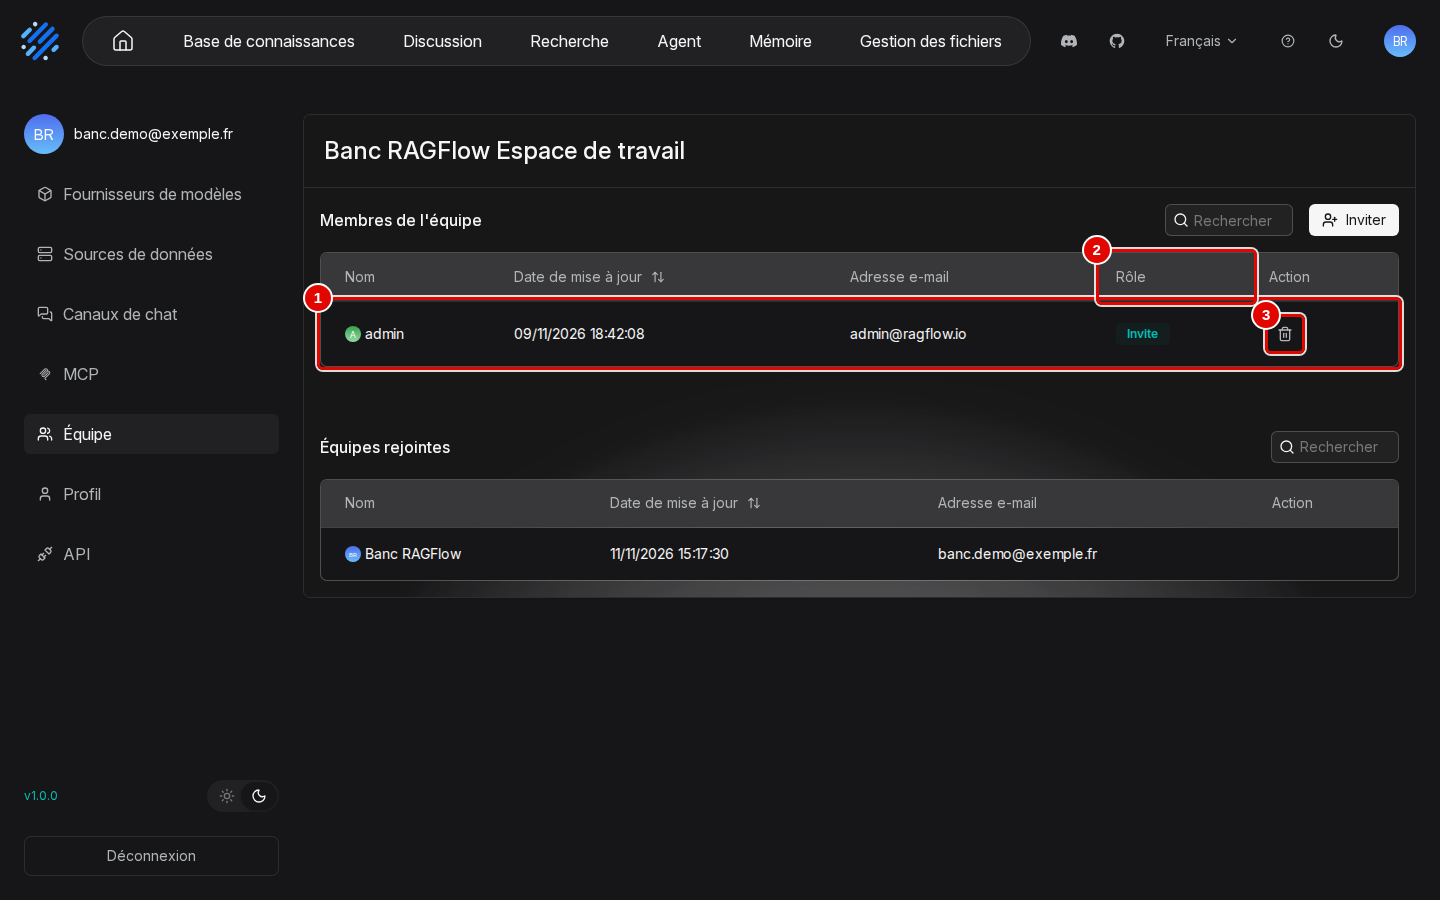
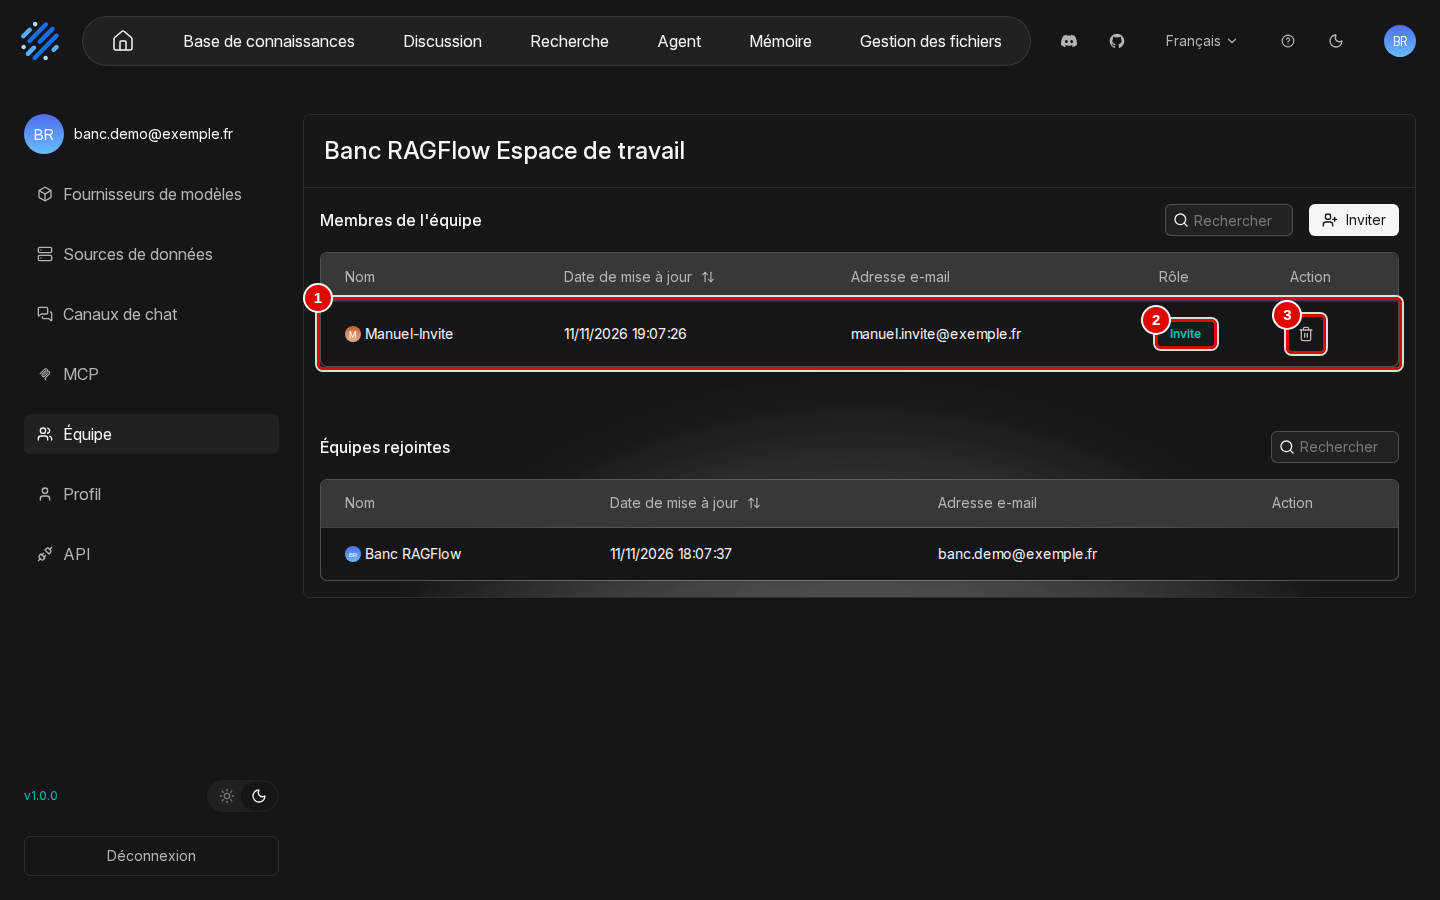
RAGFlow : manuel 13, invitation en flux suivi (compte « Manuel-Invite » créé, invité, connexion côté invité, acceptation), page de l'invité expliquée, captures refaites ; renvois du manuel 15

diff --git a/docs/ragflow/manuel/13-comptes-equipe-et-cles.md b/docs/ragflow/manuel/13-comptes-equipe-et-cles.md
@@ -32,42 +32,55 @@ Cliquer sur la pastille du compte (pastille 1) : la page des réglages s'ouvre, 
 
 ## Inviter un collègue
 
-**Étape 2. Saisir l'adresse du collègue**
-*Où* : « Équipe » › « Inviter ».
-Saisir l'adresse du compte à inviter (pastille 1), puis cliquer sur « Oui » (pastille 3). Le collègue doit déjà avoir un compte RAGFlow (lien « Sign up » de la page de connexion, chapitre 02, étape 8) : l'invitation ne crée pas de compte, comme le rappelle la consigne (pastille 2).
+L'exemple invite un collègue fictif, « Manuel-Invite », dans l'équipe du compte « Banc RAGFlow ». Il se déroule en deux temps : le propriétaire invite (étapes 2 à 4), puis le collègue accepte depuis son propre compte (étapes 5 et 6). Sur un seul poste, les deux comptes se succèdent dans le même navigateur, grâce à « Déconnexion » ; une fenêtre de navigation privée ouverte à côté permet aussi de garder les deux sessions ouvertes en même temps.
 
-![Invitation refusée](../img/13-exploitation/02-invitation-refusee.png)
-*Écran : fenêtre d'invitation, adresse sans compte refusée.*
+**Étape 2. Créer le compte du collègue**
+*Où* : page « Équipe » › « Déconnexion » (capture de l'étape 1, pastille 6), puis page de connexion › « Sign up ».
+L'invitation ne crée pas de compte : le collègue doit d'abord avoir le sien. Cliquer sur « Déconnexion », puis, sur la page de connexion, sur « Sign up ». Remplir le formulaire « Create an account » montré au chapitre 02, étape 8 : « Email » `manuel.invite@exemple.fr`, « Nickname » « Manuel-Invite », un mot de passe, puis « Continue ». Se reconnecter ensuite avec le compte propriétaire (chapitre 03, étape 1), et revenir à « Équipe ».
+
+*Résultat* : le compte « Manuel-Invite » existe ; la page « Équipe » du propriétaire est de nouveau affichée.
+
+**Étape 3. Inviter le collègue**
+*Où* : « Équipe » › « Inviter ».
+Saisir l'adresse du compte à inviter (pastille 1), puis cliquer sur « Oui » (pastille 3). La consigne (pastille 2) rappelle que seul un compte existant peut être invité : avec une adresse sans compte, le message « Astuce : 102 user not found » s'affiche en haut à droite et la fenêtre reste ouverte.
+
+![Fenêtre d'invitation](../img/13-exploitation/02-inviter.png)
+*Écran : « Équipe », fenêtre d'invitation remplie.*
 
 | N° | Élément | Rôle |
 |---|---|---|
-| 1 | « Adresse e-mail » | adresse du compte à inviter ; ici `manuel.invite@exemple.fr`, adresse sans compte |
+| 1 | « Adresse e-mail » | adresse du compte à inviter, ici `manuel.invite@exemple.fr` |
 | 2 | consigne | « Only registered users can be invited. Please register the account before sending an invitation. » |
 | 3 | « Oui » | envoie l'invitation ; « Non » annule |
-| 4 | message | « Astuce : 102 user not found » : l'adresse n'a pas de compte ; la fenêtre reste ouverte |
 
-*Résultat* : avec l'adresse d'un compte existant, la fenêtre se ferme et le membre apparaît (étape suivante).
+*Résultat* : la fenêtre se ferme et le membre apparaît dans la liste (étape suivante).
 
-**Étape 3. Vérifier ou retirer le membre**
+**Étape 4. Vérifier le membre invité**
 *Où* : « Équipe » › « Membres de l'équipe ».
-Le compte invité apparaît dans la liste (pastille 1), avec son rôle (pastille 2). Pour le retirer, cliquer sur la corbeille (pastille 3), puis sur « Supprimer » dans la confirmation « Supprimer le membre ».
+Le compte invité apparaît dans la liste (pastille 1), avec son rôle (pastille 2). La corbeille (pastille 3) le retire, après confirmation « Supprimer le membre » ; elle sert aussi plus tard, pour retirer un membre qui a accepté.
 
 ![Membre invité](../img/13-exploitation/03-membre-invite.png)
 *Écran : « Équipe », membre invité.*
 
 | N° | Élément | Rôle |
 |---|---|---|
-| 1 | membre invité | « admin », `admin@ragflow.io` (compte d'administration, invité pour l'exemple) |
-| 2 | « Rôle » | « Invite » : invitation en attente d'acceptation par le compte invité (étape 4) |
+| 1 | membre invité | « Manuel-Invite », date de l'invitation, `manuel.invite@exemple.fr` |
+| 2 | « Rôle » | « Invite » : invitation en attente ; il devient « Member » quand le collègue accepte (étape 6) |
 | 3 | corbeille | retire le membre, après confirmation |
 
-*Résultat* : le membre est ajouté ; retiré, il disparaît aussitôt de la liste.
+*Résultat* : l'invitation est envoyée ; le collègue doit maintenant l'accepter.
 
 ## Accepter une invitation et partager une base
 
-**Étape 4. Accepter l'invitation, côté invité**
+**Étape 5. Se connecter avec le compte du collègue**
+*Où* : menu du compte › « Équipe » › « Déconnexion », puis page de connexion.
+Cliquer sur « Déconnexion », puis se connecter avec `manuel.invite@exemple.fr` et son mot de passe, comme au chapitre 03, étape 1 (ou ouvrir une fenêtre de navigation privée et s'y connecter). Ouvrir ensuite le menu du compte (pastille ronde « M », en haut à droite) › « Équipe ».
+
+*Résultat* : la page « Équipe » du collègue s'affiche (étape suivante).
+
+**Étape 6. Accepter l'invitation**
 *Où* : compte invité › menu du compte › « Équipe » › « Équipes rejointes ».
-Le collègue invité se connecte à son propre compte et ouvre « Équipe » : l'équipe qui l'invite apparaît dans « Équipes rejointes » (pastille 2), avec deux boutons. Cliquer sur « Accepter » (pastille 3).
+La page est celle de l'étape 1, vue depuis l'autre compte. En haut, « Manuel-Invite Espace de travail » : l'espace propre du collègue, dont « Membres de l'équipe » est vide (« Aucune donnée disponible »). En bas, « Équipes rejointes » (pastille 1) : l'équipe qui invite (pastille 2), avec deux boutons, puis, en dernière ligne, son propre espace. Sur la machine d'essai, la page de ce compte neuf s'est affichée avec un en-tête réduit : un bouton de menu (trois traits) à gauche et une icône de traduction à droite remplacent la barre du haut et le menu « Français » ; le contenu de la page est le même. Cliquer sur « Accepter » (pastille 3).
 
 ![Invitation reçue](../img/13-exploitation/10-invitation-recue.png)
 *Écran : réglages du compte invité, page « Équipe », invitation reçue.*
@@ -79,9 +92,9 @@ Le collègue invité se connecte à son propre compte et ouvre « Équipe » : l
 | 3 | « Accepter » | rejoint l'équipe |
 | 4 | « Refuser » | décline l'invitation |
 
-*Résultat* : le message « Opéré » confirme ; les deux boutons disparaissent de la ligne, qui reste dans « Équipes rejointes ».
+*Résultat* : le message « Opéré » confirme ; les deux boutons disparaissent de la ligne, qui reste dans « Équipes rejointes ». Côté propriétaire, après reconnexion, le rôle du membre passe de « Invite » à « Member ».
 
-**Étape 5. Partager une base avec l'équipe**
+**Étape 7. Partager une base avec l'équipe**
 *Où* : compte propriétaire › barre du haut › « Base de connaissances » › base ouverte › menu de gauche › « Configuration » › « Autorisations ».
 Ouvrir la liste « Autorisations » (montrée au chapitre 06, étape 6, pastille 5), choisir « Équipe » au lieu de « Moi uniquement », puis cliquer sur « Enregistrer » en bas de la page. Un message « No PaddleOCR models added… » peut s'afficher en même temps : il ne concerne que le choix du lecteur des PDF et n'empêche pas l'enregistrement.
 
@@ -89,7 +102,7 @@ Ouvrir la liste « Autorisations » (montrée au chapitre 06, étape 6, pastille
 
 ## Régler son profil
 
-**Étape 6. Ouvrir la page « Profil »**
+**Étape 8. Ouvrir la page « Profil »**
 *Où* : menu du compte › « Profil ».
 Chaque réglage a son bouton « Modifier » à droite.
 
@@ -106,7 +119,7 @@ Chaque réglage a son bouton « Modifier » à droite.
 
 *Résultat* : le profil est affiché et modifiable.
 
-**Étape 7. Changer le fuseau horaire**
+**Étape 9. Changer le fuseau horaire**
 *Où* : « Profil » › « Modifier » en face de « Fuseau horaire ».
 Choisir le fuseau dans la liste (pastille 1), par exemple celui de Paris, puis cliquer sur « Enregistrer » (pastille 3).
 
@@ -123,7 +136,7 @@ Choisir le fuseau dans la liste (pastille 1), par exemple celui de Paris, puis c
 
 ## Créer et supprimer une clé d'accès
 
-**Étape 8. Ouvrir la page « API »**
+**Étape 10. Ouvrir la page « API »**
 *Où* : menu du compte › « API ».
 La page « RAGFlow API » donne l'adresse du serveur (pastille 3) et l'accès aux clés (pastille 2).
 
@@ -140,7 +153,7 @@ La page « RAGFlow API » donne l'adresse du serveur (pastille 3) et l'accès au
 
 *Résultat* : la page est ouverte. Sous la documentation, la carte « Langfuse » relie RAGFlow à un service de suivi des appels aux modèles ; elle n'a pas été utilisée.
 
-**Étape 9. Créer une clé**
+**Étape 11. Créer une clé**
 *Où* : page « API » › « Clé API » › « Créer une nouvelle clé ».
 Cliquer sur « Créer une nouvelle clé » (pastille 5) : la clé s'ajoute au tableau (pastille 1). La copier (pastille 3) et la coller dans le programme qui en a besoin. Les clés sont masquées sur la capture.
 
@@ -157,7 +170,7 @@ Cliquer sur « Créer une nouvelle clé » (pastille 5) : la clé s'ajoute au ta
 
 *Résultat* : la clé est créée et copiée.
 
-**Étape 10. Supprimer une clé**
+**Étape 12. Supprimer une clé**
 *Où* : fenêtre « Clé API » › corbeille de la ligne.
 Cliquer sur la corbeille de la clé, puis sur « Supprimer » (pastille 2) dans la confirmation.
 
@@ -175,7 +188,7 @@ Cliquer sur la corbeille de la clé, puis sur « Supprimer » (pastille 2) dans 
 
 La console d'administration n'a aucun lien dans l'interface ordinaire : elle s'ouvre par son adresse, `http://127.0.0.1:8088/admin`, et seul le compte `admin@ragflow.io` y entre. Son mot de passe a été tiré au hasard à l'installation ; il se trouve à la ligne `ADMIN_DEFAULT_PASSWORD` du fichier `donnees/ragflow/ragflow.env`.
 
-**Étape 11. Se connecter à la console**
+**Étape 13. Se connecter à la console**
 *Où* : navigateur Windows › `http://127.0.0.1:8088/admin`.
 Saisir le courriel (pastille 2) et le mot de passe (pastille 3), puis cliquer sur « Se connecter » (pastille 4).
 
@@ -191,7 +204,7 @@ Saisir le courriel (pastille 2) et le mot de passe (pastille 3), puis cliquer su
 
 *Résultat* : la page « Services » s'affiche (étape suivante).
 
-**Étape 12. Lire l'état des services**
+**Étape 14. Lire l'état des services**
 *Où* : console › « Services ».
 Chaque ligne est un service de l'installation (pastille 2), avec son état (pastille 3).
 
@@ -207,7 +220,7 @@ Chaque ligne est un service de l'installation (pastille 2), avec son état (past
 
 *Résultat* : l'état est lu. Les trois processus de RAGFlow sont marqués « Délai Expiré » alors que l'interface fonctionnait normalement : cet affichage n'est pas fiable ; l'état réel se vérifie comme au chapitre 02, étape 9.
 
-**Étape 13. Gérer les comptes**
+**Étape 15. Gérer les comptes**
 *Où* : console › « Utilisateurs ».
 La page liste les comptes (pastille 1) ; les icônes d'action d'une ligne apparaissent au survol.
 
@@ -225,7 +238,7 @@ La page liste les comptes (pastille 1) ; les icônes d'action d'une ligne appara
 
 *Résultat* : les comptes sont listés. Ces actions n'ont pas été essayées, pour ne pas toucher au compte de démonstration.
 
-**Étape 14. Lire le réglage du bac à sable**
+**Étape 16. Lire le réglage du bac à sable**
 *Où* : console › « Bac à sable ».
 Cette page règle où s'exécute le code lancé par le bloc « Code » des agents (chapitre 10, étape 15).
 
@@ -252,9 +265,9 @@ Cette page règle où s'exécute le code lancé par le bloc « Code » des agent
 
 | Symptôme | Cause | Que faire |
 |---|---|---|
-| « Astuce : 102 user not found » à l'invitation | l'adresse n'a pas de compte | faire créer le compte (« Sign up »), puis inviter |
-| Heures décalées dans certaines pages | heures affichées en temps universel | ajouter une heure (deux en été) pour Paris ; régler aussi « Fuseau horaire » (étape 7) |
-| Un programme est refusé après la suppression d'une clé | la clé supprimée était la sienne | créer une nouvelle clé (étape 9) et la donner au programme |
+| « Astuce : 102 user not found » à l'invitation | l'adresse n'a pas de compte | faire créer le compte (« Sign up », étape 2), puis inviter |
+| Heures décalées dans certaines pages | heures affichées en temps universel | ajouter une heure (deux en été) pour Paris ; régler aussi « Fuseau horaire » (étape 9) |
+| Un programme est refusé après la suppression d'une clé | la clé supprimée était la sienne | créer une nouvelle clé (étape 11) et la donner au programme |
 | « Délai Expiré » sur le serveur dans la console | affichage peu fiable de la console | vérifier l'état comme au chapitre 02, étape 9 |
 
 Les autres problèmes sont traités au chapitre [15. En cas de problème](15-en-cas-de-probleme.md).

diff --git a/docs/ragflow/manuel/15-en-cas-de-probleme.md b/docs/ragflow/manuel/15-en-cas-de-probleme.md
@@ -96,10 +96,10 @@ Ces problèmes sont montrés, avec leur écran, dans le chapitre de la fonction 
 | Onglet « Artifacts » vide (« No wiki yet ») | la vue choisie n'est pas le type que la base produit | choisir le bon type dans le sélecteur | 11, étape 12 |
 | Fichier à 0 passage, « LLM response is not parseable JSON » | le modèle n'a pas rendu la synthèse dans le format attendu (types « Wiki » et « PageIndex ») | choisir un autre type de synthèse ou un modèle plus grand | 11, « Bon à savoir » |
 | « URL resolves to a non-public address (…), which is not allowed » | l'adresse de la source n'est pas publique | site public, ou réglage `ALLOW_ANY_HOST` en connaissant le risque | 12, étape 3 |
-| « Astuce : 102 user not found » à l'invitation | l'adresse n'a pas de compte | faire créer le compte, puis inviter | 13, étape 2 |
-| « Délai Expiré » sur le serveur dans la console d'administration | affichage peu fiable de la console | vérifier l'état de l'application | 13, étape 10 |
+| « Astuce : 102 user not found » à l'invitation | l'adresse n'a pas de compte | faire créer le compte, puis inviter | 13, étapes 2 et 3 |
+| « Délai Expiré » sur le serveur dans la console d'administration | affichage peu fiable de la console | vérifier l'état de l'application | 13, étape 14 |
 | L'interface revient en anglais | langue mémorisée par le navigateur seulement | menu de langue › « Français » | 03, étape 2 |
-| Heures décalées dans certaines pages | heures affichées en temps universel | ajouter une heure (deux en été) pour Paris | 13, étape 5 |
+| Heures décalées dans certaines pages | heures affichées en temps universel | ajouter une heure (deux en été) pour Paris | 13, étape 9 |
 
 ## Régler un problème d'installation ou de démarrage
 
